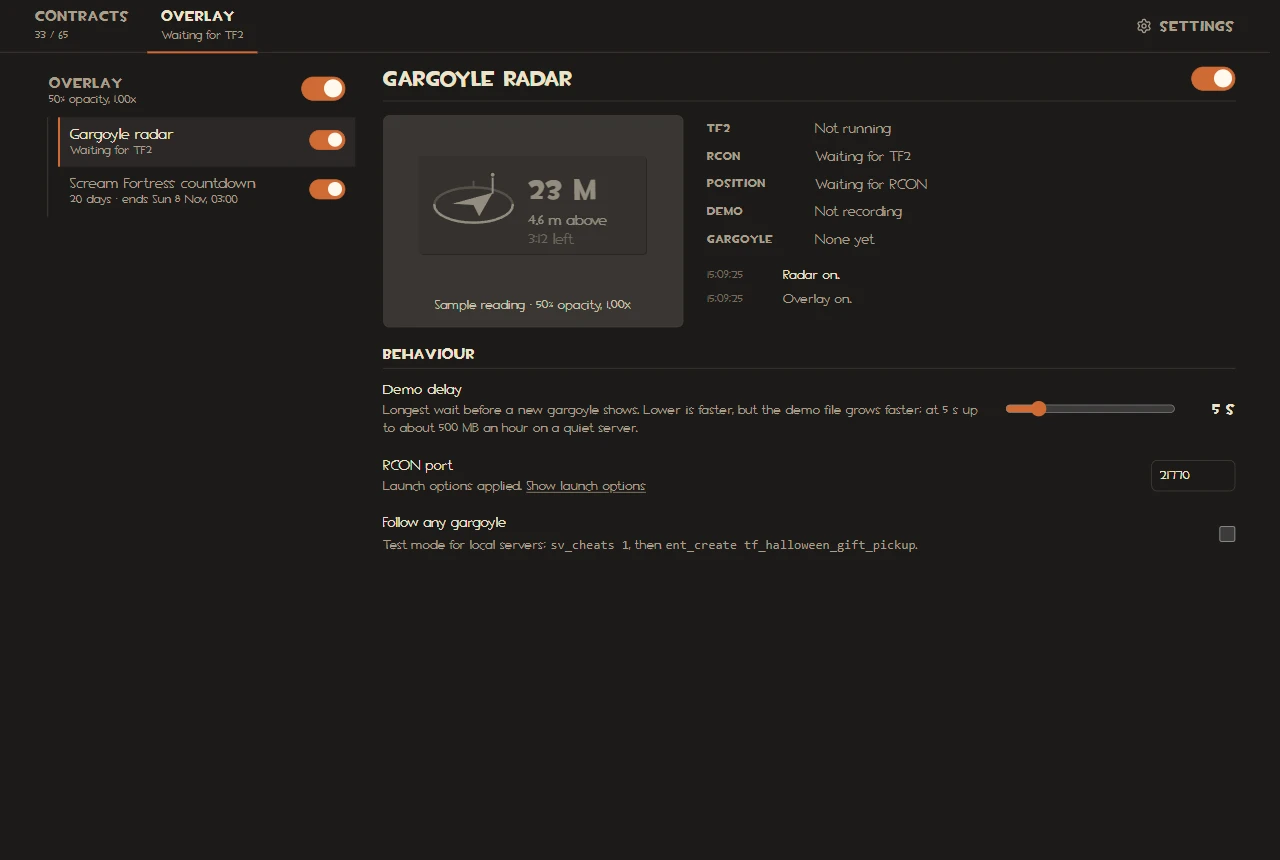
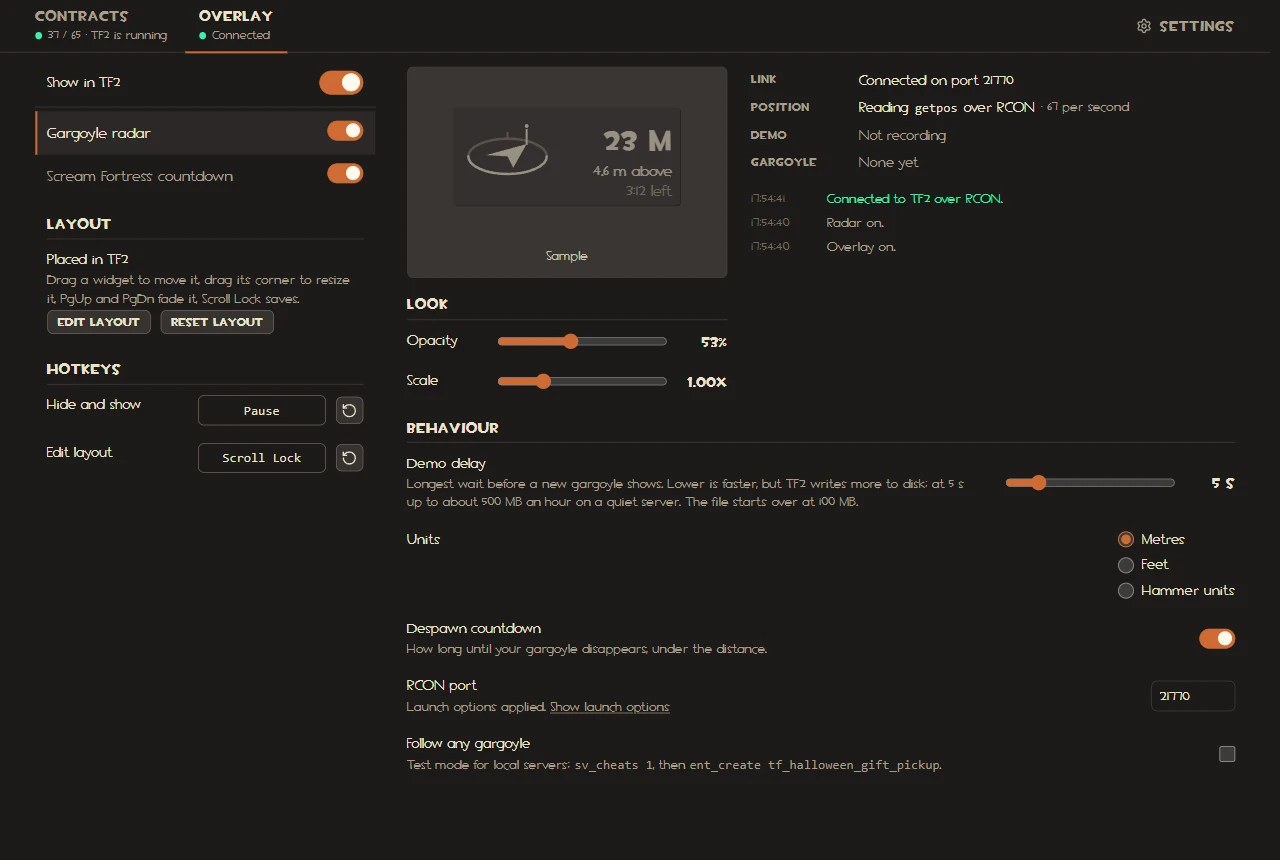
Refresh the docs screenshots
Both are taken from the 2.1.0 release build at 1280x860: the Contracts tab with synced contracts, and the
Overlay tab with the radar connected to TF2. The alt text describes what they now show.

diff --git a/README.md b/README.md
@@ -5,7 +5,7 @@ A Windows app for Team Fortress 2's Scream Fortress:
 - **Contracts**: a checklist of the Halloween map contracts. It syncs your progress from Steam, follows your matches, and queues the maps you still need.
 - **Overlay**: in-game widgets, each with its own switch: a radar that points to your soul gargoyle, and a countdown to the end of the contracts.
 
-<img src="docs/images/contracts.webp" alt="The Contracts tab: synced contracts, the filters, and maps queued for TF2's casual queue" width="720">
+<img src="docs/images/contracts.webp" alt="The Contracts tab: contracts synced from Steam, the filters and the map tiles" width="720">
 
 ## Download
 

diff --git a/docs/using/overlay.md b/docs/using/overlay.md
@@ -2,7 +2,7 @@
 
 Widgets drawn over TF2: the **Gargoyle radar** and the **Scream Fortress countdown**. Clicks pass through them to the game. They need TF2 in **Windowed (no border)** mode. Nothing in the game files changes and TF2's memory is not read; [how the overlay works](../how-it-works/overlay.md) explains what it does instead.
 
-<img src="../images/overlay.webp" alt="The Overlay tab: the element tree and the radar's status and settings" width="720">
+<img src="../images/overlay.webp" alt="The Overlay tab: the widget list, and the radar's preview, status and settings" width="720">
 
 ## The Overlay tab
 
